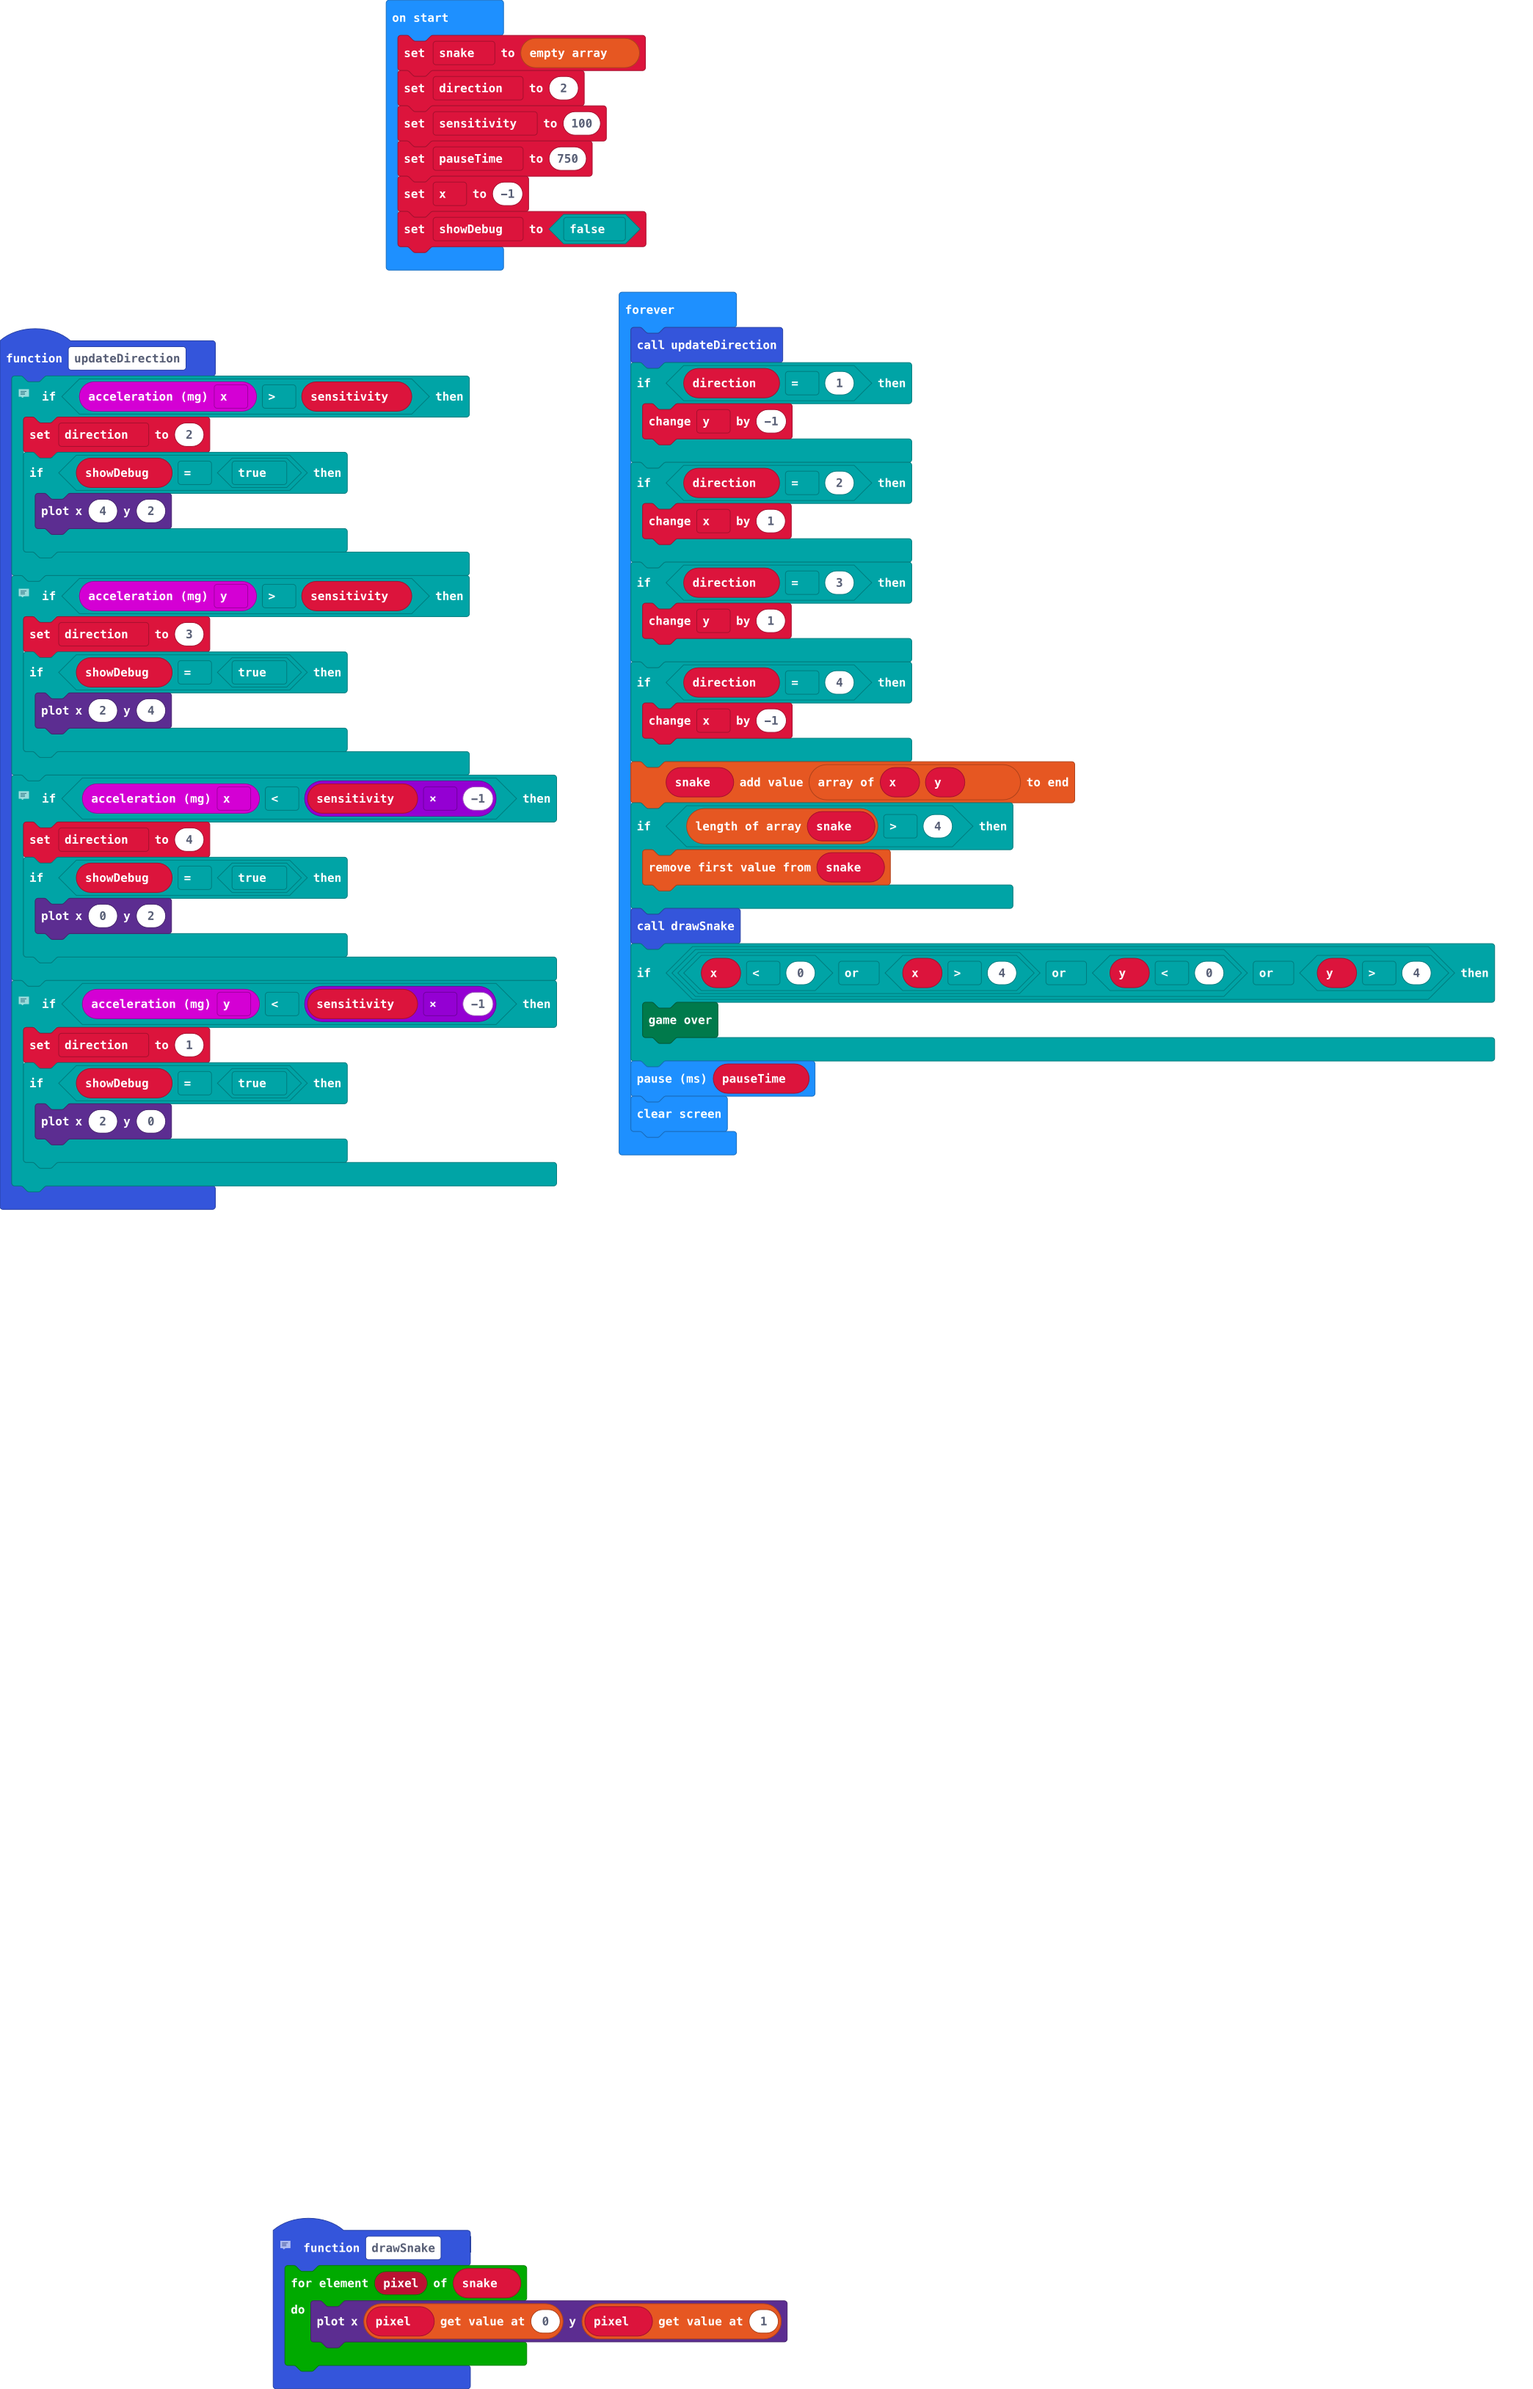
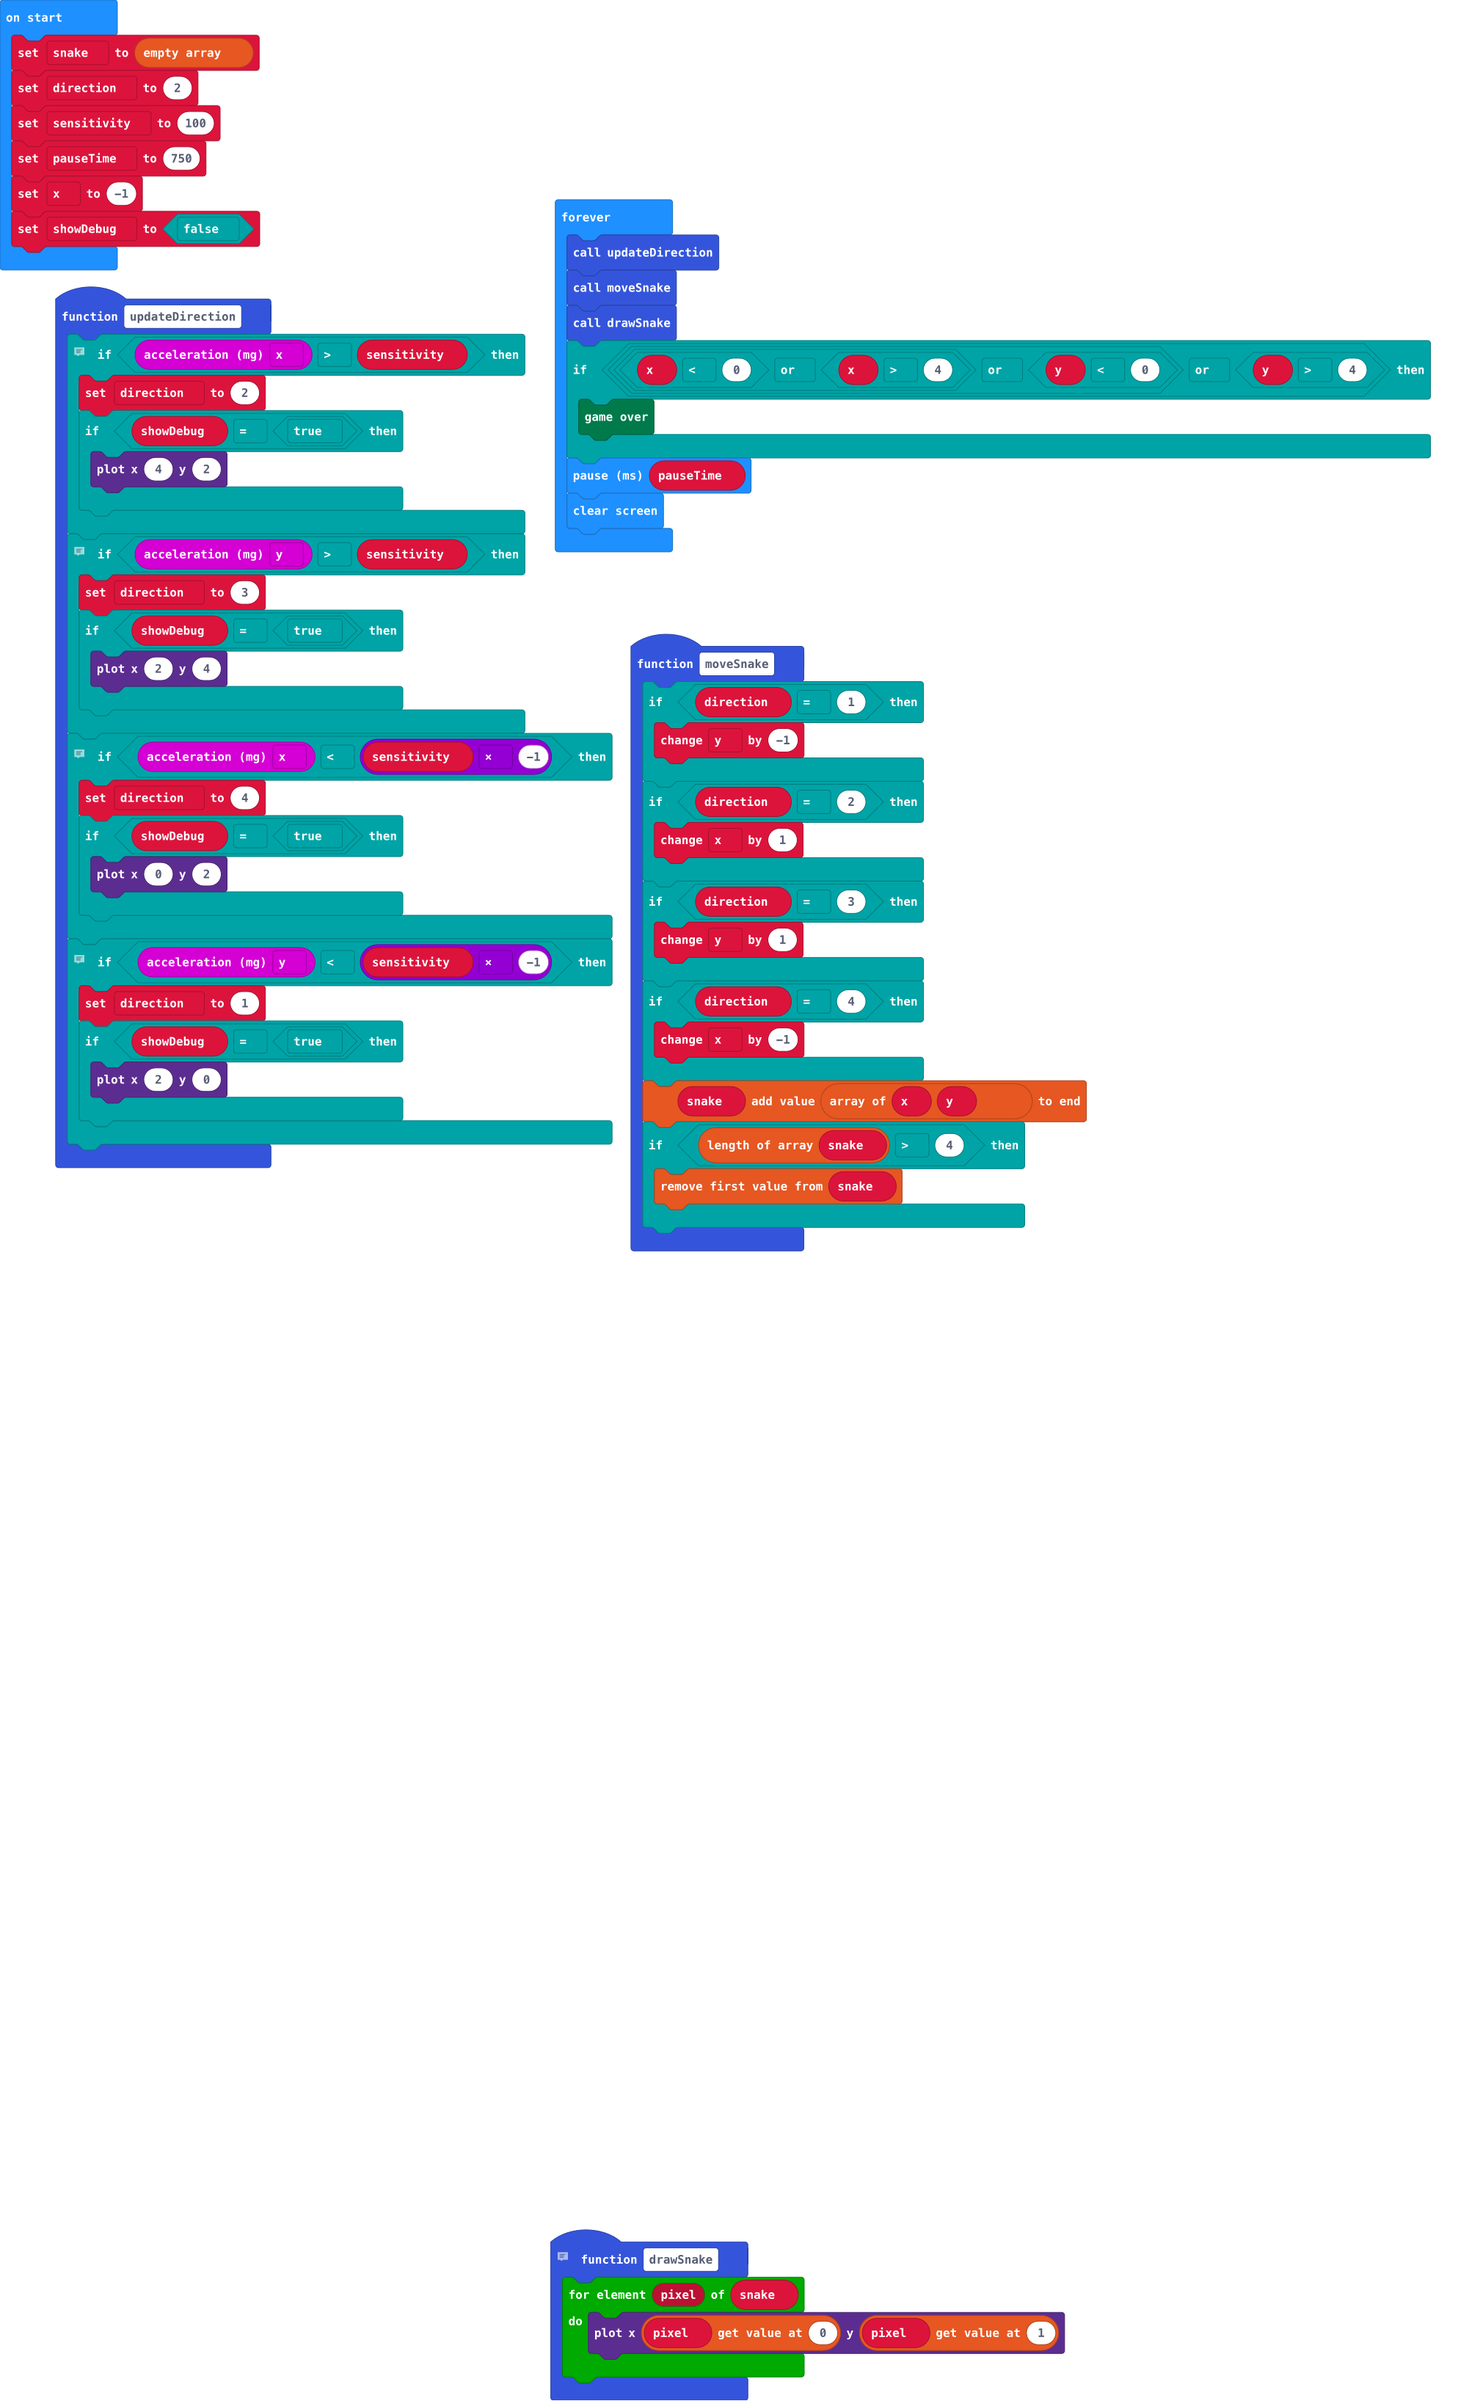
Update main.blocks, main.ts

Changed region(s): [[0.0, 0.0, 0.991, 0.5273], [0.1548, 0.9306, 0.7433, 1.0]]

diff --git a/main.ts b/main.ts
@@ -1,3 +1,21 @@
+function moveSnake () {
+    if (direction == 1) {
+        y += -1
+    }
+    if (direction == 2) {
+        x += 1
+    }
+    if (direction == 3) {
+        y += 1
+    }
+    if (direction == 4) {
+        x += -1
+    }
+    snake.push([x, y])
+    if (snake.length > 4) {
+        snake.shift()
+    }
+}
 // for (let y = 0; y <= 4; y++) {
 // for (let x = 0; x <= 4; x++) {
 // let snake: Array[] = []
@@ -43,6 +61,7 @@ function updateDirection () {
 }
 let y = 0
 let showDebug = false
+let x = 0
 let sensitivity = 0
 let direction = 0
 let snake: number[][] = []
@@ -50,26 +69,11 @@ snake = []
 direction = 2
 sensitivity = 100
 let pauseTime = 750
-let x = -1
+x = -1
 showDebug = false
 basic.forever(function () {
     updateDirection()
-    if (direction == 1) {
-        y += -1
-    }
-    if (direction == 2) {
-        x += 1
-    }
-    if (direction == 3) {
-        y += 1
-    }
-    if (direction == 4) {
-        x += -1
-    }
-    snake.push([x, y])
-    if (snake.length > 4) {
-        snake.shift()
-    }
+    moveSnake()
     drawSnake()
     if (x < 0 || x > 4 || y < 0 || y > 4) {
         game.gameOver()
